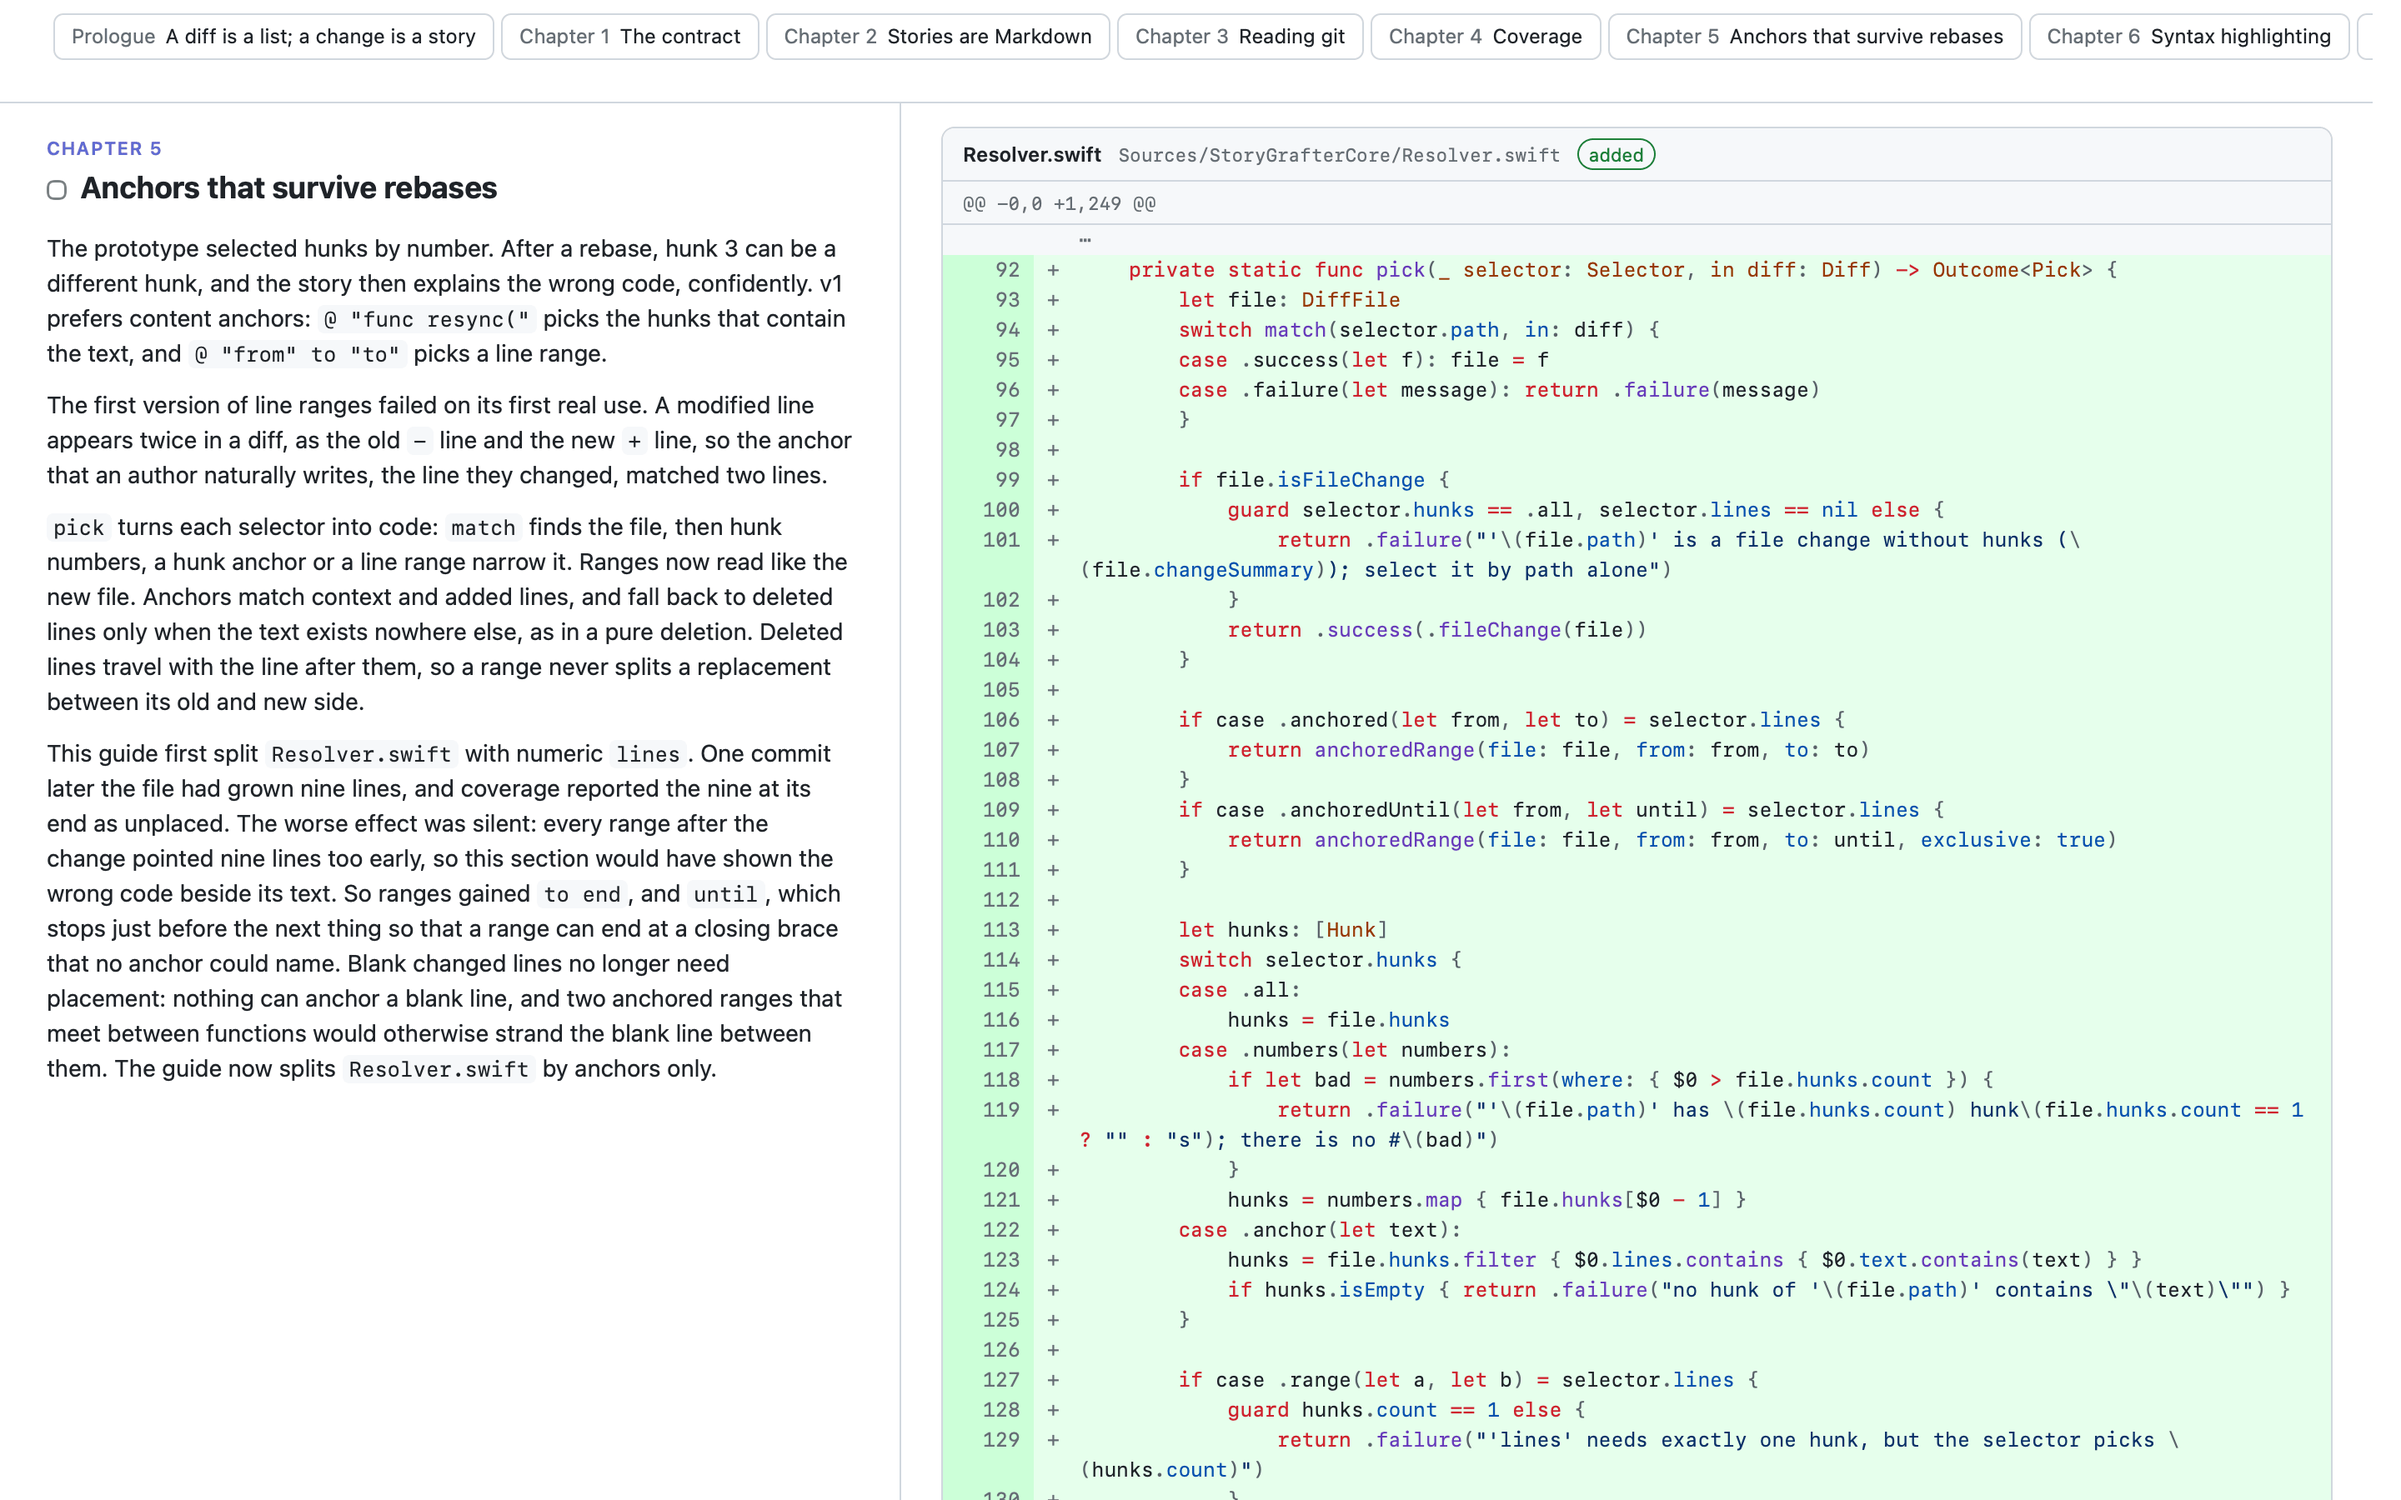
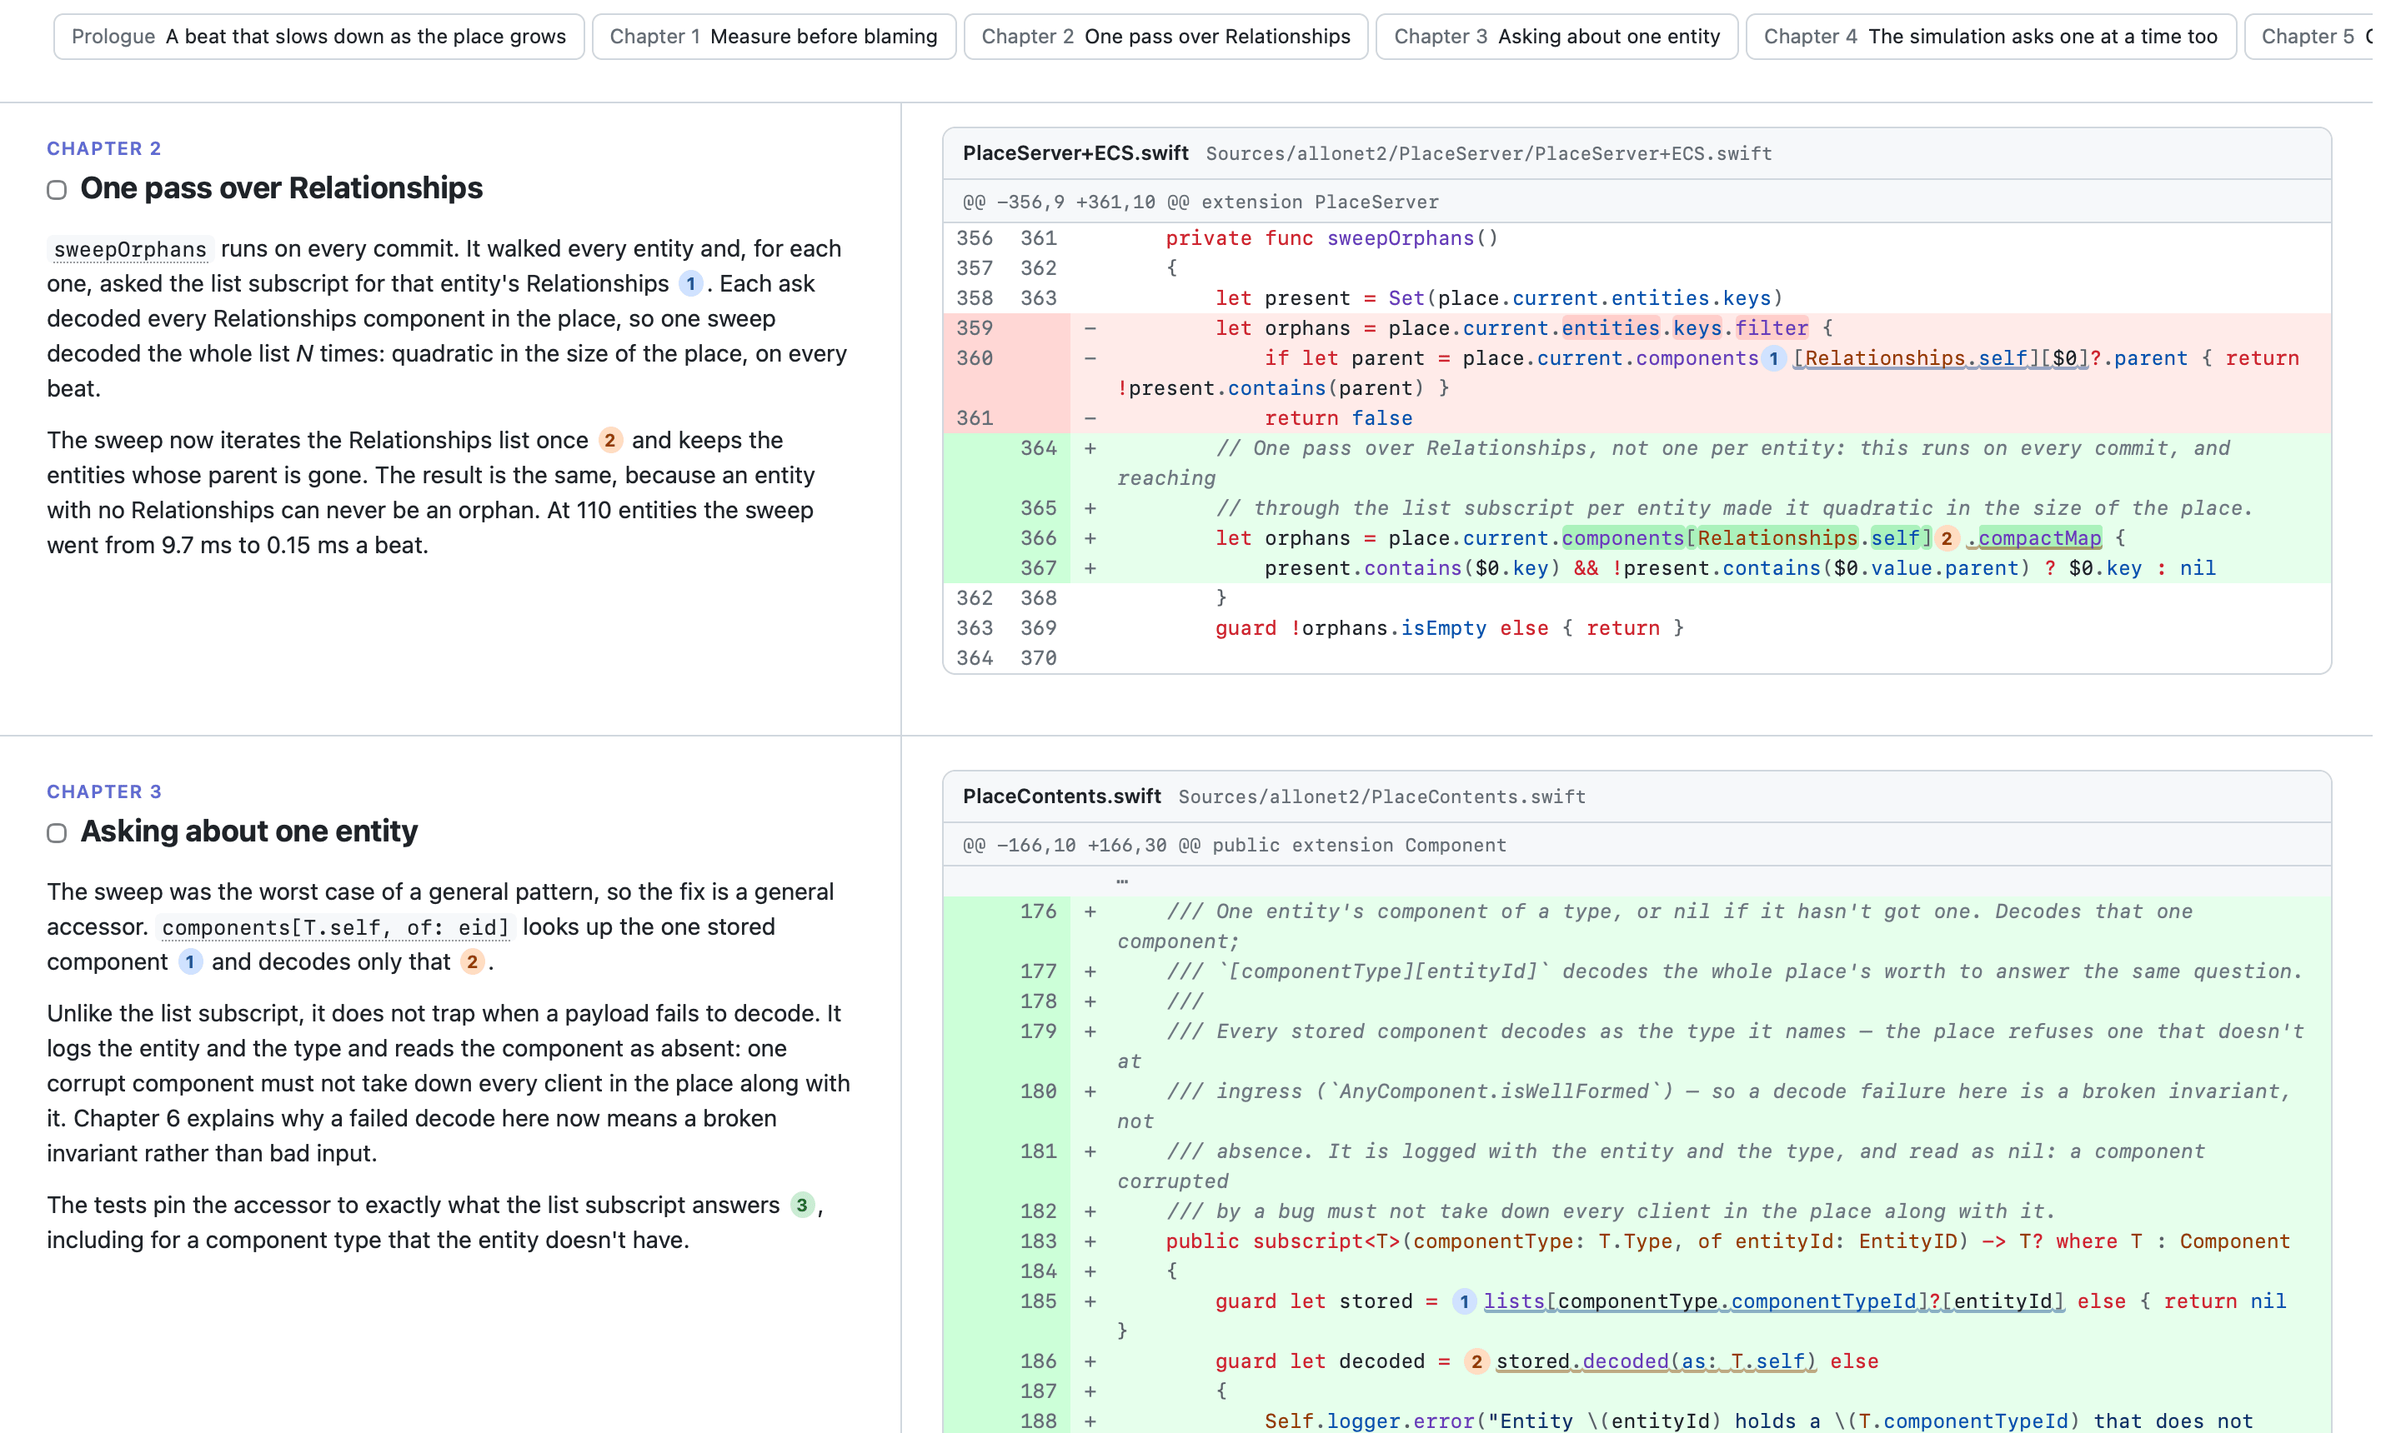
Use alloverse/allonet2#46 as the example guide
The README's screenshot and linked guide now show a mid-sized change
with markers, code links, change highlighting, footnotes, an open
question and an appendix. The self-guide for v1 goes: it showed
coverage more than craft, and its range needed this repo's history.

diff --git a/example/allonet2-46.md b/example/allonet2-46.md
@@ -1,0 +1,125 @@
+---
+title: Fix the beat rate collapsing with the size of the place
+meta: alloverse/allonet2#46 · six commits · reconstructed from the pull request and its commits
+range: a2d7fa8f...7697b777
+head: 7697b777
+---
+A place with about a hundred entities was sending one changeset every 200 ms, where the coalesce delay allows one every 20 ms. The cause was a lookup that decoded the whole place to answer a question about one entity, inside a loop over every entity, on every commit. This change makes those lookups decode one component, shares one state diff between clients that are in step, and closes a crash that the new lookup exposed.
+
+## Prologue · A beat that slows down as the place grows {#prologue}
+The place server batches changes into a **beat**: it waits for the 20 ms coalesce delay, commits what arrived, and sends every client a changeset. The beat **self-clocks**. Its period is the coalesce delay *plus* however long the commit and broadcast take, so the server never queues beats behind each other.
+
+That design has a sharp edge. If something inside the beat costs more as the place grows, nothing looks slow: there is no slow request and no timeout. The beat simply comes around less often, and every client sees the place update at a lower rate.
+
+That is what a knackeriet-scale place showed: 107 entities and about five clients, minting one changeset per ~200 ms instead of per 20 ms.[^report] The previous week it had been fine.
+
+[^report]: Observed on alloplace v3.5.1. The orphan sweep (Chapter 2) landed in v3.4.8 on 2026-08-24, three days before the report; v3.4.7 has no sweep.
+
+## Chapter 1 · Measure before blaming {#measure}
+The obvious suspect was the per-client diff: every beat, the server diffs the whole place against each client's acknowledged revision, and that is the one cost that visibly grows with both the place and the client count.
+
+It was not the culprit. Timing each stage of the beat at 5 clients and 110 entities put the diff at 0.9 ms of a 10.7 ms beat. Almost all of the rest was `sweepOrphans`, the pass that removes entities whose parent is gone: 8.6 ms of a 9.0 ms beat.[^stages]
+
+The reason is in the component store. `ComponentLists` has a typed list subscript, `components[T.self]`, that hands back every component of one type, decoded. It decodes on every access and caches nothing {@ "as! [EntityID: T]"}. Reaching through it for one entity, as in `components[Relationships.self][eid]`, decodes the whole place's worth of that type to answer one question. The change documents that cost on the subscript itself, and in the architecture notes where the next reader will look {@ "hoist the list out of any loop"}.
+
+[^stages]: Per-stage timings from a local harness in a release build: a place populated to scale, five clients acking at 20 ms, one of them walking. Full numbers in the appendix.
+
+```hunks
+PlaceContents.swift @ "Every component of a type, decoded" until "One entity's component of a type"
+docs/architecture.md
+```
+
+## Chapter 2 · One pass over Relationships {#sweep}
+`sweepOrphans` runs on every commit. It walked every entity and, for each one, asked the list subscript for that entity's Relationships {@ "[Relationships.self][$0]"}. Each ask decoded every Relationships component in the place, so one sweep decoded the whole list *N* times: quadratic in the size of the place, on every beat.
+
+The sweep now iterates the Relationships list once {@ ".compactMap"} and keeps the entities whose parent is gone. The result is the same, because an entity with no Relationships can never be an orphan. At 110 entities the sweep went from 9.7 ms to 0.15 ms a beat.
+
+```hunks
+PlaceServer+ECS.swift #11
+```
+
+## Chapter 3 · Asking about one entity {#accessor}
+The sweep was the worst case of a general pattern, so the fix is a general accessor. `components[T.self, of: eid]` looks up the one stored component {@ "lists[componentType.componentTypeId]?[entityId]"} and decodes only that {@ "stored.decoded(as: T.self)"}.
+
+Unlike the list subscript, it does not trap when a payload fails to decode. It logs the entity and the type and reads the component as absent: one corrupt component must not take down every client in the place along with it. Chapter 6 explains why a failed decode here now means a broken invariant rather than bad input.
+
+The tests pin the accessor to exactly what the list subscript answers {@ "matchesTheListSubscript"}, including for a component type that the entity doesn't have.
+
+```hunks
+PlaceContents.swift @ "One entity's component of a type" to end
+PlaceContents.swift #2
+ComponentAccessTests.swift @ "import Testing" until "aPayloadThatDoesntMatchItsTypeIdIsNotWellFormed"
+```
+
+## Chapter 4 · The simulation asks one at a time too {#callers}
+The same pattern was all over the simulation. The movement tick decoded every Transform in the place to read one per client {@ "let transforms = place.current.components[Transform.self]"}. Every step of every ancestor walk in the grab path, through `transformToWorld`, `resolveActuation` and `isEntity`, decoded a whole list to look up one parent.
+
+Each of those reads now names the entity it wants {@ "components[Transform.self, of: avatarId]"}. These changes are mechanical, but they matter: the movement tick went from 13 ms to under 1 ms at 110 entities, and it shares the main actor with the beat that it feeds.
+
+```hunks
+PlaceServer+ECS.swift #2-9
+GrabSimulation.swift
+```
+
+## Chapter 5 · One diff per acknowledged revision {#diffs}
+With the sweep fixed, the per-client diff became the largest remaining cost: 1.5 ms of a 2.0 ms beat at 5 clients and 110 entities.
+
+The diff is over the whole place, against the revision a client has acknowledged. Every client that is keeping up has acknowledged the same revision, so each of them was paying for the same computation. The beat now keeps one diff per distinct acknowledged revision {@ "var deltas: [StateRevision: PlaceChangeSet] = [:]"} and computes it only when no client before has asked for that revision {@ "?? place.current.changeSet(from:"}.
+
+The wire format is unchanged: each client still receives a changeset stamped from the revision it acknowledged. A client that has acknowledged nothing, or has fallen out of history, is caught up from revision 0, the empty place. The tests check both sides of that: clients in step get the same changeset, and a laggard is still caught up from its own revision.
+
+```hunks
+PlaceServer+ECS.swift #1
+StateBroadcastTests.swift @ "import Testing" until "aComponentWhosePayloadIsNotItsTypeIsRefused"
+StateBroadcastTests.swift @ "everyClientsChangesetAppliesOntoWhatItAcked" to end
+```
+
+## Chapter 6 · Refusing a component that lies about its type {#ingress}
+`AnyComponent` decodes its type id and its payload independently. Nothing ties the two together, so a peer can send an Opacity payload labelled Transform, and the place will store it. Reading it back through the list subscript, which force-tries the decode, traps the whole server: reproduced on main as a SIGTRAP from a single `changeEntity` request.
+
+The place now checks at ingress, where the entity is still in hand to name in the error. `isWellFormed` decodes the payload as the type it names {@ "guard let type = ComponentRegistry.shared.component(for: componentTypeId)"}. Both the create path {@ "for case .componentAdded(let eid, let comp) in changes"} and the change path refuse a component that fails, with an `invalidRequest` error. Components of types this binary doesn't know stay opaque and pass, because the place forwards them without ever decoding them.
+
+That is what turns a decode failure in the new accessor into a broken invariant rather than untrusted input, and it is why the accessor logs one instead of staying silent.
+
+```hunks
+PlaceContents+Codable.swift
+PlaceServer+ECS.swift #10
+PlaceServer+ECS.swift #12
+PlaceServer+ECS.swift #13
+ComponentAccessTests.swift @ "aPayloadThatDoesntMatchItsTypeIdIsNotWellFormed" to end
+StateBroadcastTests.swift @ "aComponentWhosePayloadIsNotItsTypeIsRefused" until "everyClientsChangesetAppliesOntoWhatItAcked"
+```
+
+## Epilogue · What this leaves alone {#owed}
+- **Not reproduced over a real transport.** The harness drives `PlaceServer` in process over a mock transport. That is where the cost lives, since all of it is main-actor work, but it does not exercise libdatachannel.
+- **Voice was not measured.** Forwarded voice frames never touch the main actor, so they cannot starve the beat. That conclusion comes from reading the receive path, not from a measurement.
+- **The bigger fast path is not built.** A client that has just acknowledged could be sent the beat's own committed changeset, restamped, instead of a fresh diff. At 0.28 ms a beat, the diff isn't worth that correctness risk yet.
+- **No CI guard on the complexity.** A timing assertion would be flaky. The tests pin behaviour; the performance claim rests on the harness numbers in the appendix.
+
+> [!QUESTION]
+> The diff becomes the dominant cost again past roughly 300 entities or 20 clients. Should the restamped-changeset fast path be built before places reach that size, or only when one does?
+
+# Appendix
+
+## The numbers {#numbers}
+Beat rate counted off the wire in the local harness, release build on an M-series Mac. Before is `origin/main`, after is this branch, run back to back.
+
+| World | Clients | Before | After |
+|---|---|---|---|
+| 106 entities, 35 relationships | 1 | 30.0 beats/s | 43.3 beats/s |
+| 110 entities, 35 relationships | 5 | 28.9 | 42.2 |
+| 125 entities, 35 relationships | 20 | 27.3 | 42.6 |
+| 110 entities, 84 relationships (widget-nested) | 5 | 22.3 | 43.0 |
+| 305 entities, 240 relationships | 5 | 7.5 | 40.6 |
+
+The shape matters more than the absolute numbers. Before, the beat rate fell as the world grew. After, it is flat at about 41 to 43 beats a second across every world shape, so it is bounded by the coalesce delay and scheduling rather than by the size of the place. The reported 200 ms is what the 305-entity case looks like on a slower host.
+
+```text attachment "Per-stage timings, 5 clients and 110 entities"
+beat            10.7 ms  ->  2.0 ms
+  sweep          9.7 ms  ->  0.15 ms
+  diff           0.9 ms  ->  0.28 ms
+movement tick   13.1 ms  ->  < 1 ms
+
+305 entities
+beat            45.1 ms  ->  3.7 ms
+```

diff --git a/README.md b/README.md
@@ -4,9 +4,14 @@ A gardener grafts a scion onto a rootstock so that the two grow as one tree. Sto
 
 It builds a **review guide**: the story of a change in sections on the left, and next to each section the exact diff lines it explains. The output is one self-contained HTML file. The idea comes from Linear's review guides (https://linear.app/docs/diffs).
 
-[![A section of StoryGrafter's own review guide: the story on the left, the highlighted code it explains on the right](docs/images/example-guide.png)](https://files.d.nevyn.dev/k/1d773aad592e8125/storygrafter-v1-guide.html)
+[![Two sections of a review guide for alloverse/allonet2#46: the story on the left with numbered markers, and the highlighted diff on the right with the same markers on the code they point at](docs/images/example-guide.png)](https://files.d.nevyn.dev/k/59b72839cae4e5e7/allonet2-46-guide.html)
 
-[Open the full example guide](https://files.d.nevyn.dev/k/1d773aad592e8125/storygrafter-v1-guide.html): StoryGrafter's own v1 change, built from [example/story.md](example/story.md).
+[Open the full example guide](https://files.d.nevyn.dev/k/59b72839cae4e5e7/allonet2-46-guide.html) for [alloverse/allonet2#46](https://github.com/alloverse/allonet2/pull/46), a fix for a server beat that slowed down as its world grew. The story, [example/allonet2-46.md](example/allonet2-46.md), was reconstructed afterwards from the pull request and its commits rather than written in the authoring session. To rebuild it:
+
+```sh
+git clone https://github.com/alloverse/allonet2.git
+storygrafter build --repo allonet2 --story example/allonet2-46.md --out allonet2-46.html
+```
 
 The build enforces **coverage**: every changed line of the diff is placed in exactly one section, so a reviewer who reads the story has seen the whole change.
 
